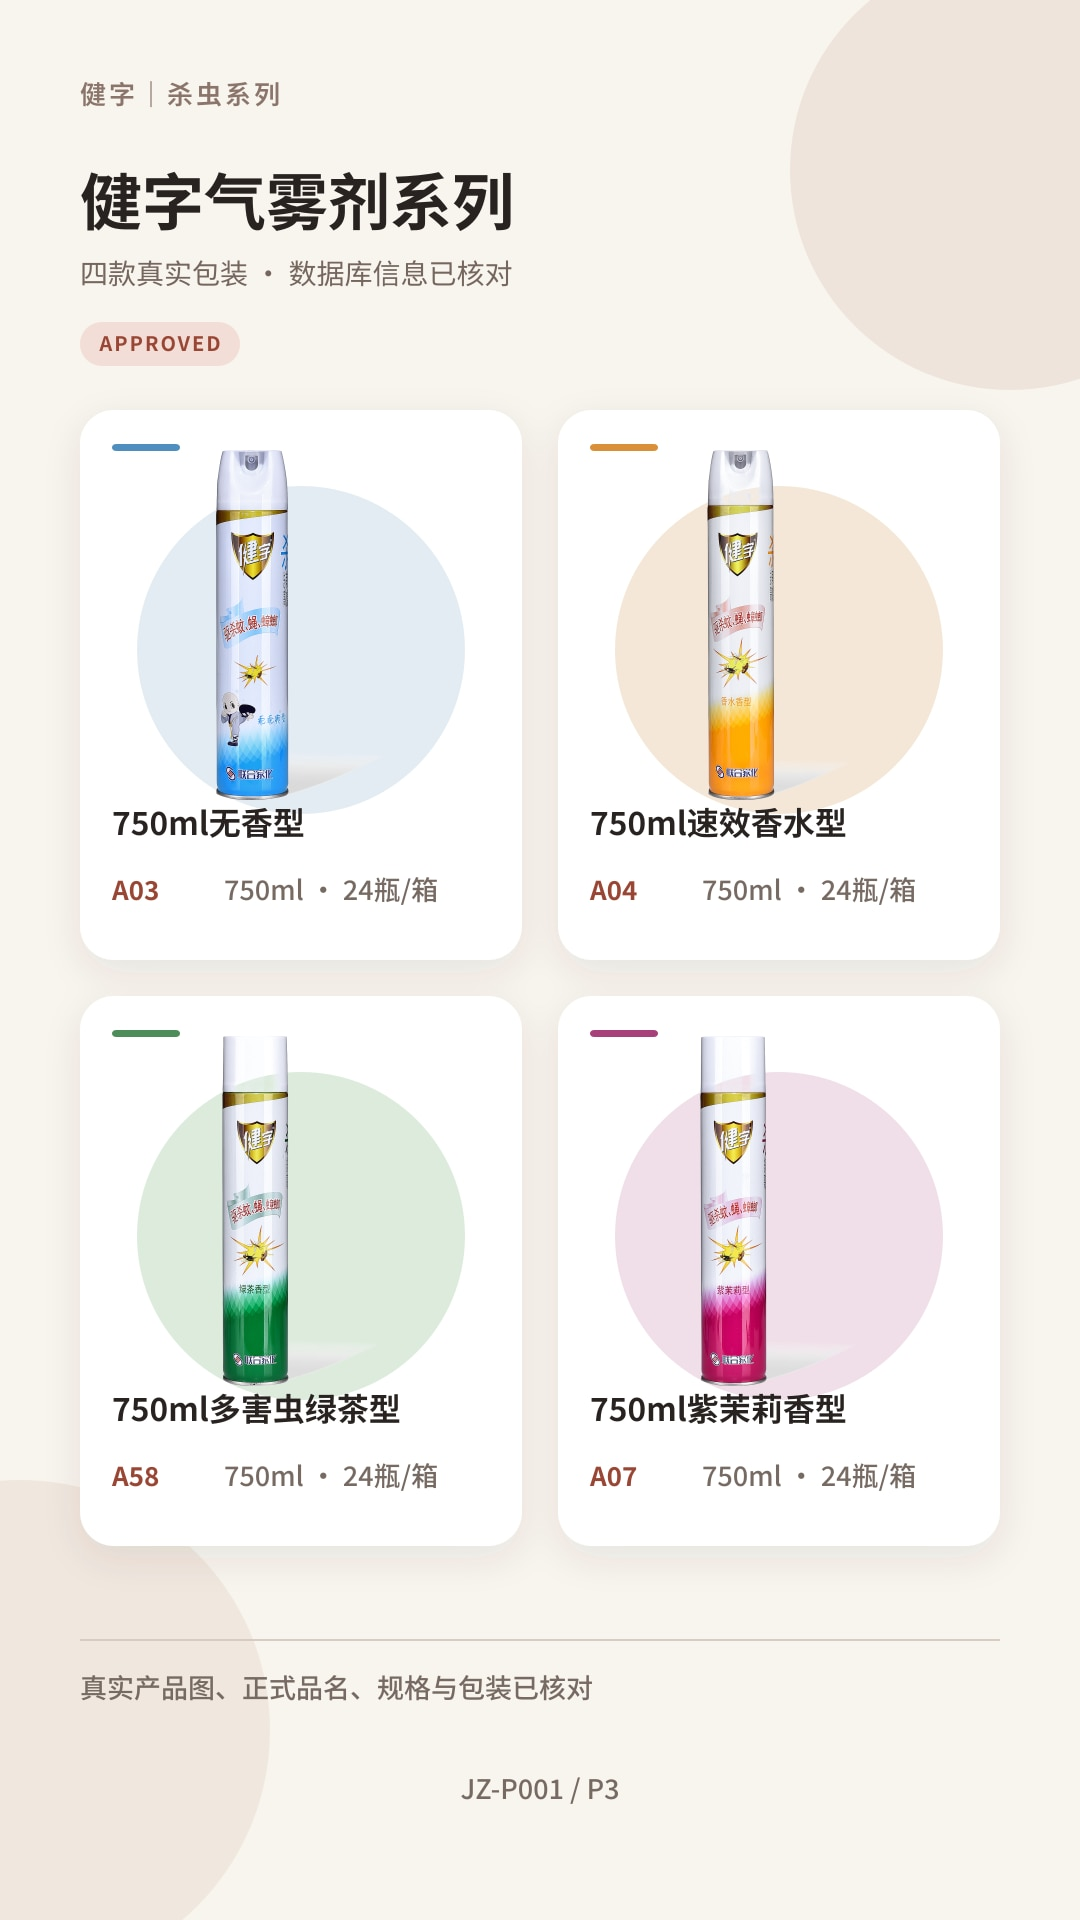
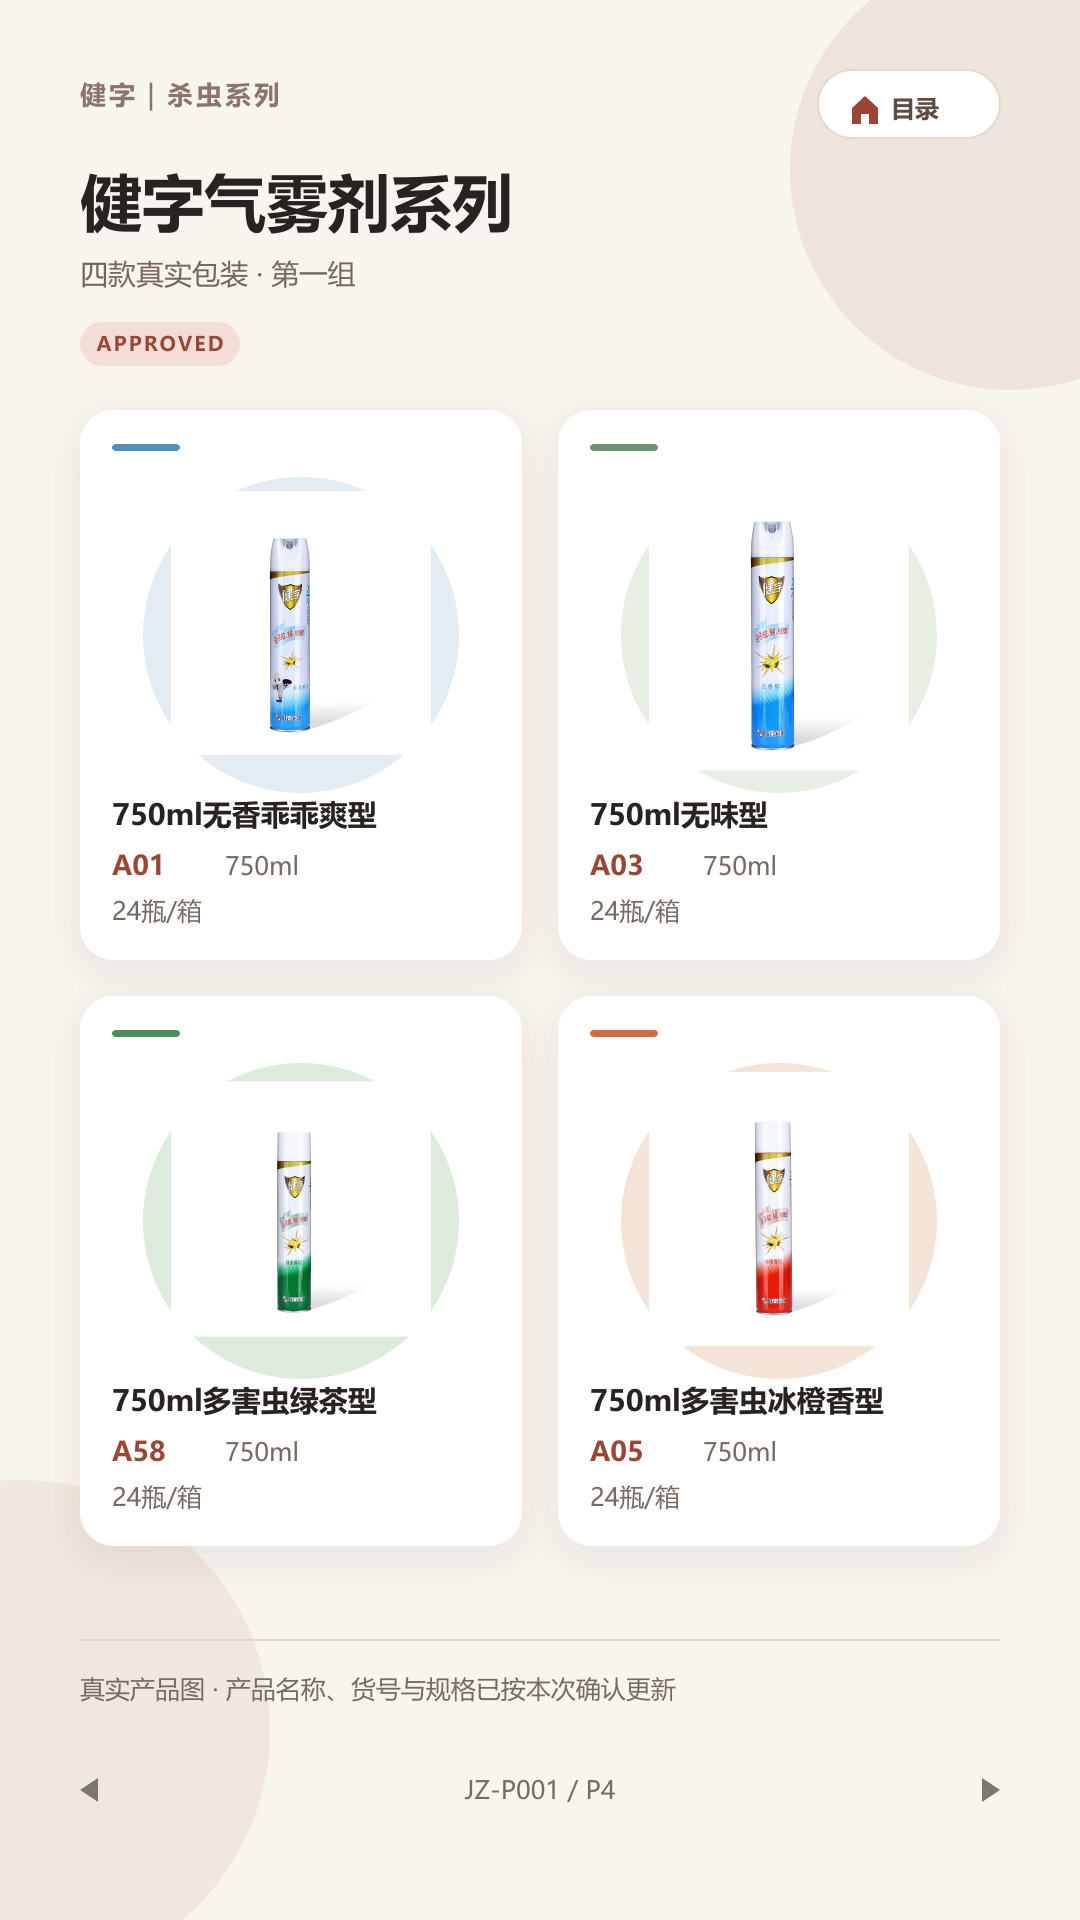
更新健字气雾剂系列并新增第二页

diff --git a/index.html b/index.html
@@ -37,6 +37,7 @@ const pages = [
   {id:"DIR-001",title:"全书主目录",section:"全书",src:"pages/DIR-001.jpg"},
   {id:"SEC-JZ",title:"健字产品专区",section:"健字",src:"pages/SEC-JZ.jpg"},
   {id:"JZ-P001",title:"健字气雾剂系列",section:"健字",src:"pages/JZ-P001.jpg"},
+  {id:"JZ-P001B",title:"健字气雾剂系列（二）",section:"健字",src:"pages/JZ-P001B.jpg"},
   {id:"JZ-P002",title:"免拆桶装蚊香",section:"健字",src:"pages/JZ-P002.jpg"},
   {id:"JZ-P003",title:"电热蚊香液系列（一）",section:"健字",src:"pages/JZ-P003.jpg"},
   {id:"JZ-P004",title:"电热蚊香液系列（二）",section:"健字",src:"pages/JZ-P004.jpg"},
@@ -77,7 +78,7 @@ const links = {
     [7.4,52.1,85.2,12.3,'COOP-001','进入招商合作'],[7.4,66.9,85.2,12.3,'CONTACT','进入联系方式']],
   'ENT-MARKET': [[7.4,77.0,85.2,8.5,'SEC-JZ','查看品牌与产品']],
   'ENT-INTRO': [[10.2,36.7,38,14.8,'@asset:营业执照.jpg','查看营业执照大图'],[51.8,36.7,38,14.8,'@asset:农药生产许可证.jpg','查看农药生产许可证大图'],[10.2,51.9,38,14.8,'@asset:农药登记证_代表证.jpg','查看农药登记证大图'],[51.8,51.9,38,14.8,'@asset:河北省科技型中小企业.jpg','查看科技型中小企业证书大图']],
-  'SEC-JZ': ['JZ-P001','JZ-P002','JZ-P003','JZ-P004','JZ-P005','JZ-P006','JZ-P007'],
+  'SEC-JZ': ['JZ-P001','JZ-P001B','JZ-P002','JZ-P003','JZ-P004','JZ-P005','JZ-P006','JZ-P007'],
   'SEC-YJ': ['YJ-P001','YJ-P002','YJ-P003','YJ-P004'],
   'SEC-JGB': ['JGB-P001','JGB-P002'],
   'SEC-HC': ['HC-P001','HC-P002','HC-P003'],

diff --git a/sw.js b/sw.js
@@ -1,4 +1,4 @@
-const C='topic6-v1-restore-five-pages';const CORE=['./','./index.html','./style.css','./manifest.webmanifest','./icon-192.png'];self.addEventListener('install',e=>e.waitUntil(caches.open(C).then(c=>c.addAll(CORE)).then(()=>self.skipWaiting())));self.addEventListener('activate',e=>e.waitUntil(caches.keys().then(keys=>Promise.all(keys.filter(k=>k!==C).map(k=>caches.delete(k)))).then(()=>self.clients.claim())));self.addEventListener('fetch',e=>e.respondWith(caches.match(e.request).then(r=>r||fetch(e.request).then(x=>{const y=x.clone();caches.open(C).then(c=>c.put(e.request,y));return x;}))));
+const C='topic6-v1-jz-aerosol-30-pages';const CORE=['./','./index.html','./style.css','./manifest.webmanifest','./icon-192.png'];self.addEventListener('install',e=>e.waitUntil(caches.open(C).then(c=>c.addAll(CORE)).then(()=>self.skipWaiting())));self.addEventListener('activate',e=>e.waitUntil(caches.keys().then(keys=>Promise.all(keys.filter(k=>k!==C).map(k=>caches.delete(k)))).then(()=>self.clients.claim())));self.addEventListener('fetch',e=>e.respondWith(caches.match(e.request).then(r=>r||fetch(e.request).then(x=>{const y=x.clone();caches.open(C).then(c=>c.put(e.request,y));return x;}))));
 
 
 
